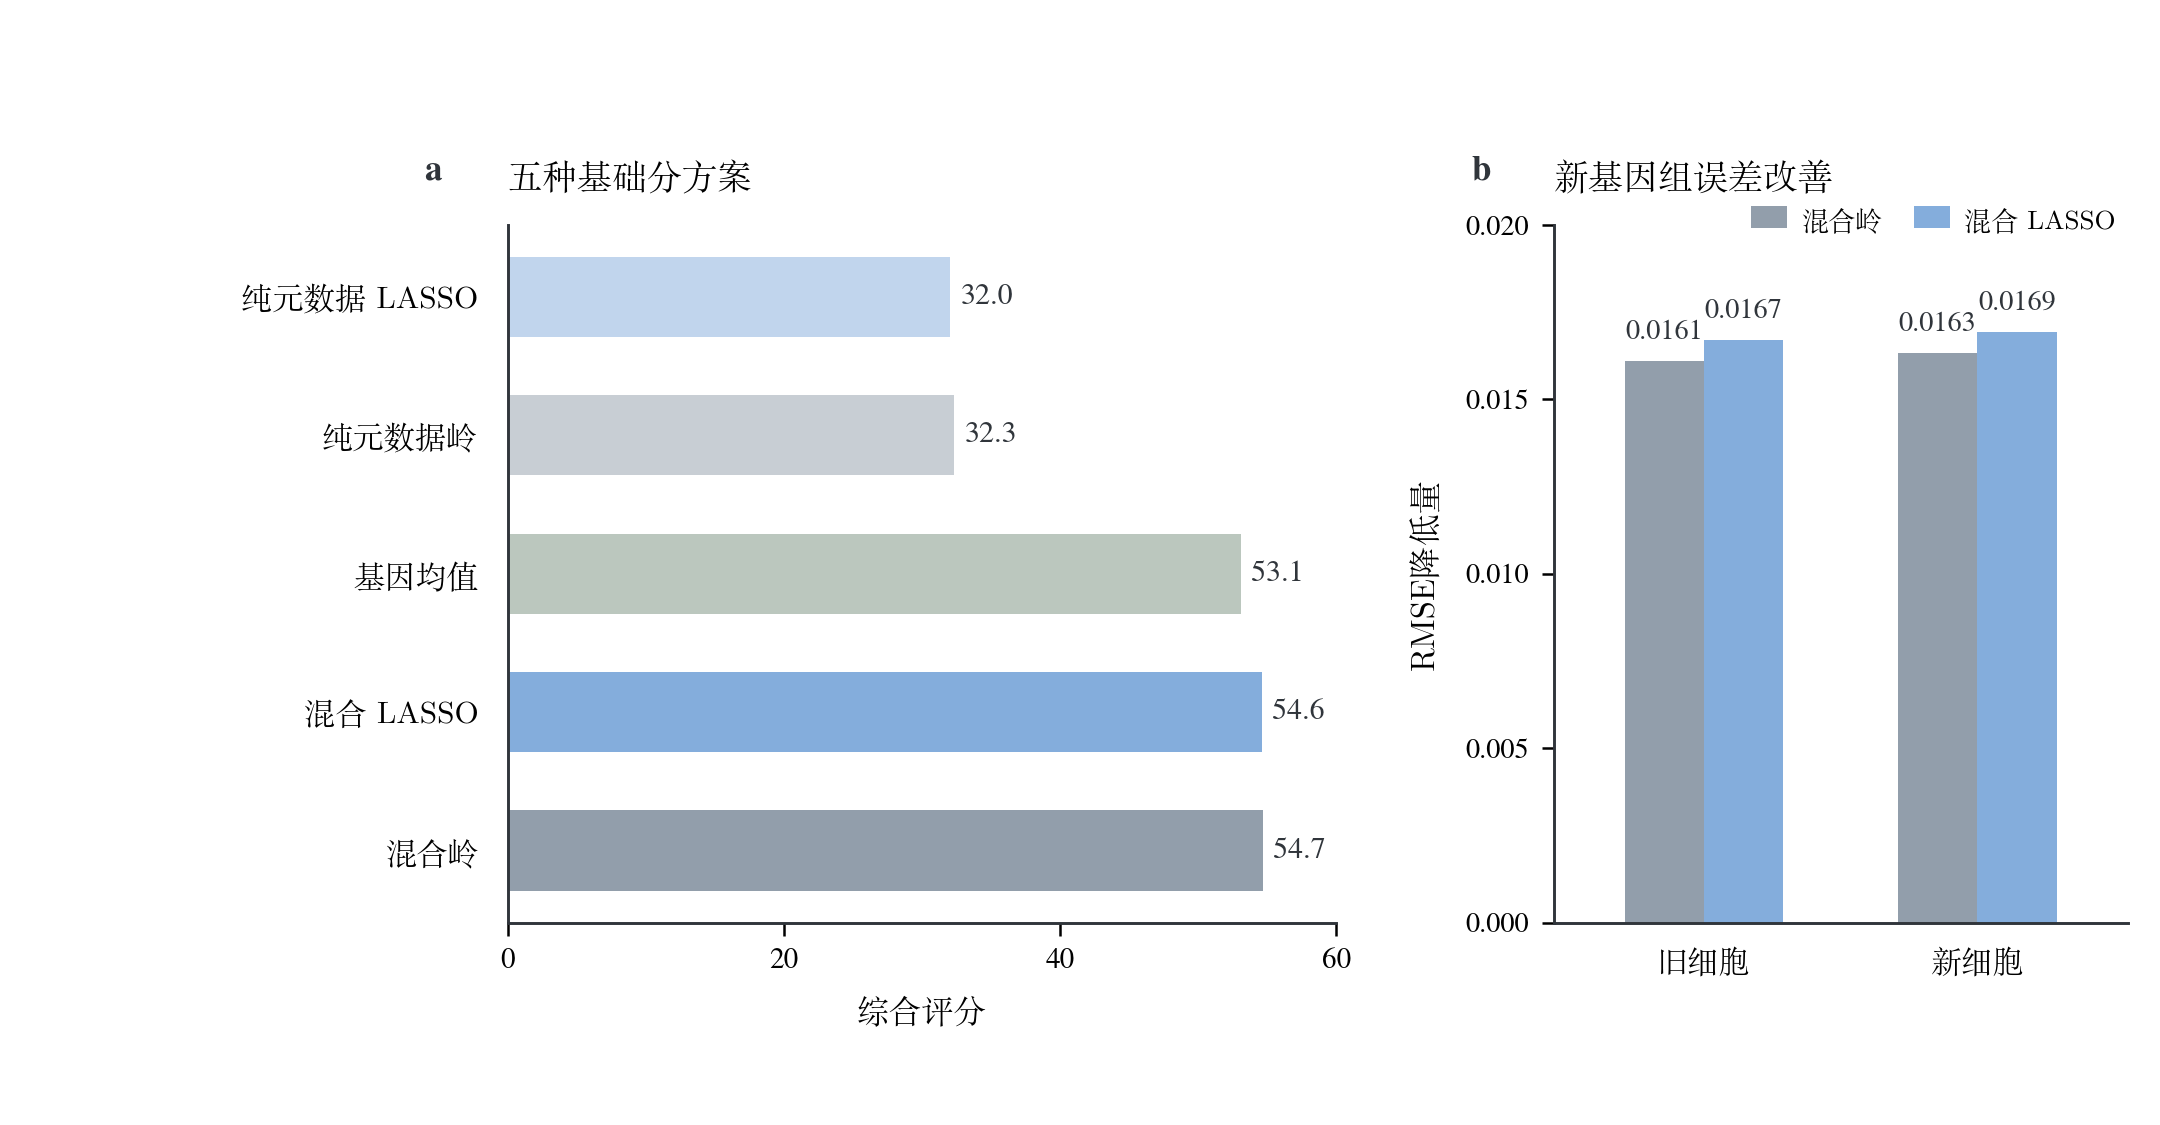
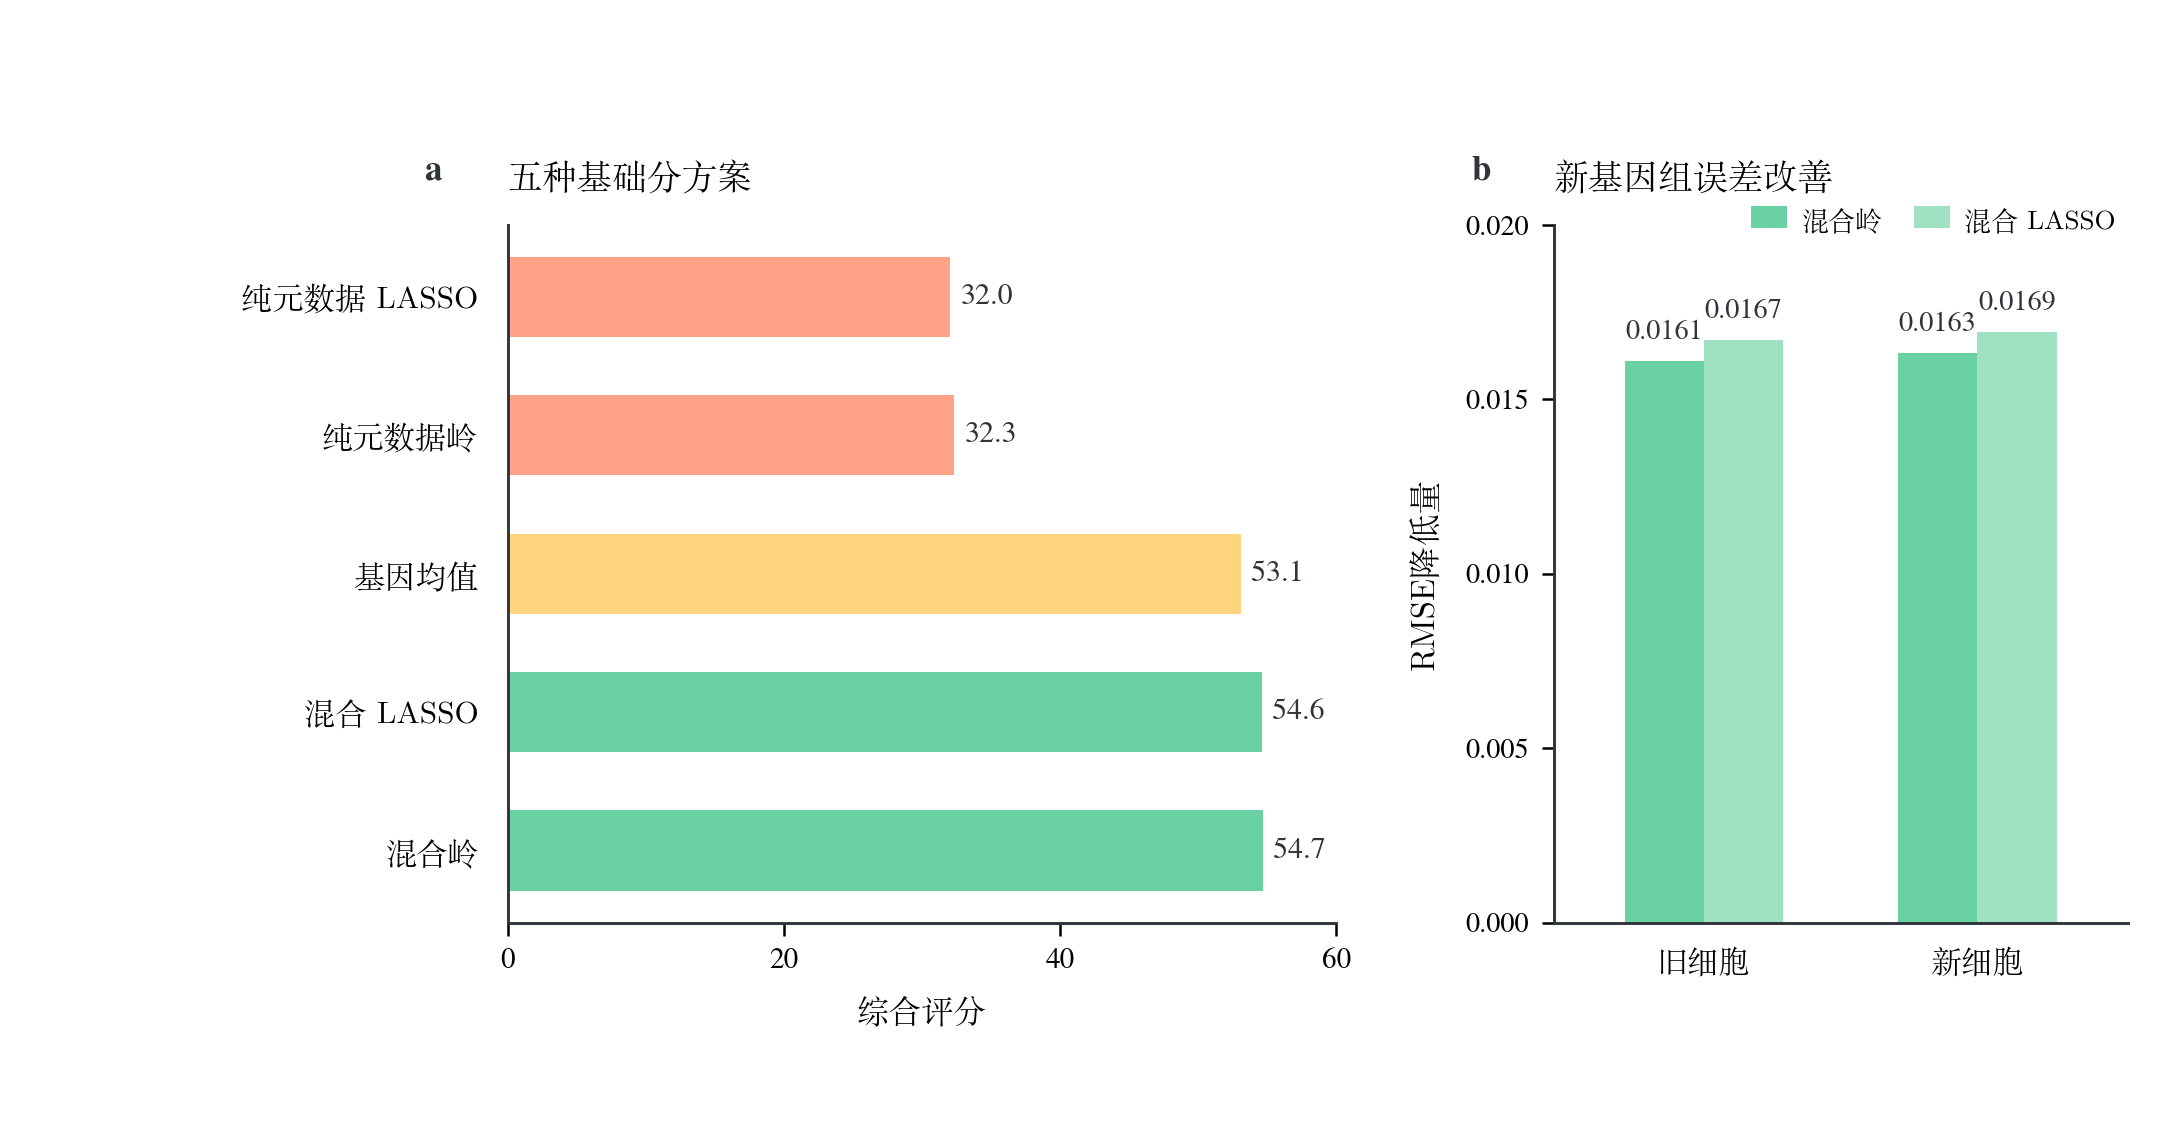
v8.2.28：统一图5好中差颜色语义

diff --git a/C题建模/scripts/figures/draw_figure5_gene_base_models.py b/C题建模/scripts/figures/draw_figure5_gene_base_models.py
@@ -26,7 +26,13 @@ FIGURES_DIR = PROJECT_ROOT / "figures"
 DATA_PATH = RESULTS_DIR / "figure5_gene_base_model_comparison.csv"
 sys.path.insert(0, str(PROJECT_ROOT))
 
-from utils.plot_style import PALETTE, apply_publication_style, audit_design, audit_layout  # noqa: E402
+from utils.plot_style import (  # noqa: E402
+    CONFIDENCE_COLORS,
+    PALETTE,
+    apply_publication_style,
+    audit_design,
+    audit_layout,
+)
 
 
 MODEL_ORDER = [
@@ -44,11 +50,16 @@ MODEL_LABELS = {
     "metadata_lasso": "纯元数据 LASSO",
 }
 MODEL_COLORS = {
-    "hybrid_ridge": PALETTE["known"],
-    "hybrid_lasso": PALETTE["contrast"],
-    "gene_mean": PALETTE["neutral"],
-    "metadata_ridge": (0.5725, 0.6196, 0.6706, 0.50),
-    "metadata_lasso": (0.5176, 0.6784, 0.8627, 0.50),
+    "hybrid_ridge": CONFIDENCE_COLORS["high"],
+    "hybrid_lasso": CONFIDENCE_COLORS["high"],
+    "gene_mean": CONFIDENCE_COLORS["medium"],
+    "metadata_ridge": CONFIDENCE_COLORS["low"],
+    "metadata_lasso": CONFIDENCE_COLORS["low"],
+}
+# 两个改善量都属于正向结果，仅用同一绿色的深浅区分算法。
+IMPROVEMENT_COLORS = {
+    "hybrid_ridge": CONFIDENCE_COLORS["high"],
+    "hybrid_lasso": "#9EE1C3",
 }
 NEW_GENE_SUBSETS = ["old_cell_new_gene", "new_cell_new_gene"]
 NEW_GENE_LABELS = ["旧细胞", "新细胞"]
@@ -222,7 +233,7 @@ def draw_figure() -> tuple[plt.Figure, pd.DataFrame]:
             x_positions + (model_index - 0.5) * width,
             reduction_values,
             width=width,
-            color=MODEL_COLORS[model],
+            color=IMPROVEMENT_COLORS[model],
             edgecolor="none",
             linewidth=0,
             label=MODEL_LABELS[model],

diff --git a/C题建模/figures/contracts/图5_基因基础分模型比较.md b/C题建模/figures/contracts/图5_基因基础分模型比较.md
@@ -7,10 +7,10 @@
 ## 图表契约
 
 - **类别：** 问题二基础分结果图，采用两个并列定量面板。
-- **面板 A：** 五种基础分方案的官方总分横向条形图，包括基因均值、纯元数据岭、纯元数据 LASSO、混合岭和混合 LASSO；条形从零开始，混合岭使用主模型色，其余方案使用同色系的中性色和较浅对照色。
-- **面板 B：** 两个新基因组相对基因均值基线的 RMSE 降低量。只比较混合岭和混合 LASSO，横轴分为旧细胞与新细胞，纵轴统一表示“RMSE 降低，越高越好”。
+- **面板 A：** 五种基础分方案的官方总分横向条形图，包括基因均值、纯元数据岭、纯元数据 LASSO、混合岭和混合 LASSO；条形从零开始，并按结果层级而非算法名称着色：混合岭、混合 LASSO 为绿色，基因均值为黄色，纯元数据岭、纯元数据 LASSO 为珊瑚色。
+- **面板 B：** 两个新基因组相对基因均值基线的 RMSE 降低量。只比较混合岭和混合 LASSO，横轴分为旧细胞与新细胞，纵轴统一表示“RMSE 降低，越高越好”。四根柱均表示正向改善，因此统一使用绿色系；岭与 LASSO 只用同一绿色的深浅和图例区分。
 - **数据准备：** 使用已有五份阶段 4 逐行预测和官方评分函数生成 `results/figure5_gene_base_model_comparison.csv`，不重新拟合模型，也不从 Markdown 手抄总分。
-- **颜色规则：** 岭回归使用灰蓝系，LASSO 使用蓝色系；纯元数据方案使用对应颜色的浅色，混合方案使用实色，基因均值使用中性灰绿。颜色表示估计方法，标签直接写明是否为纯元数据或混合方案。
+- **颜色规则：** 遵守全文固定的“好—中—差”语义：好或正向使用绿色 `#6AD1A3`，中等使用黄色 `#FFD47D`，差或探索性使用珊瑚色 `#FFA288`。不得为了区分岭与 LASSO 临时增加灰蓝、蓝色等新方法色；同一结果层级中的模型由纵轴标签区分。
 - **视觉规则：** 不使用黑边、棒棒糖或五种高饱和颜色；数值只标关键总分和 RMSE 降低量，完整指标保留在结果表。
 - **解释边界：** 面板 A 说明混合策略的价值，面板 B 说明岭与 LASSO 的差距很小；不能仅凭 RMSE 把 LASSO 写成失败路线。
 - **输出边界：** 第一轮只生成 PNG 预览，确认后再导出完整格式。
